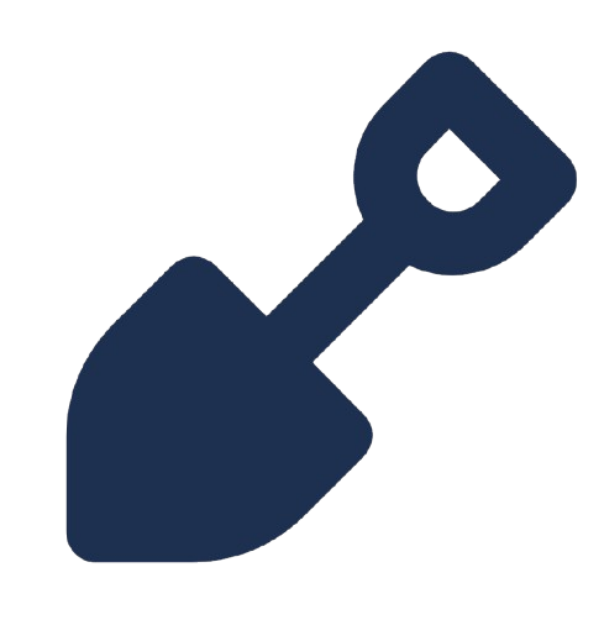
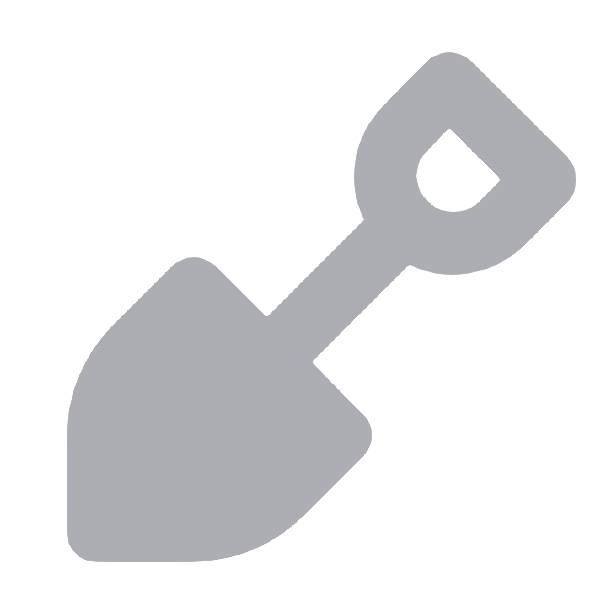
bulldozer + graphs

diff --git a/content.js b/content.js
@@ -1,7 +1,8 @@
 console.log("DiscoDig running...")
 
+// initialize variables
 const stopwords = new Set([
-    "got", "after", "going", "theres", "ill", "yes", "thats", "i", "im", "i'm", "r", "ur", "u", "me", "my", "myself", "we", "our", "ours", "ourselves", "you", "your",
+    "get", "got", "after", "going", "theres", "ill", "yes", "thats", "i", "im", "i'm", "r", "ur", "u", "me", "my", "myself", "we", "our", "ours", "ourselves", "you", "your",
     "yours", "yourself", "yourselves", "he", "him", "his", "himself", "she",
     "her", "hers", "herself", "it", "its", "itself", "they", "them", "their",
     "theirs", "themselves", "what", "which", "who", "whom", "this", "that",
@@ -15,6 +16,22 @@ const stopwords = new Set([
     "own", "same", "so", "than", "too", "very", "can", "will", "just"
 ]);
 
+let mappedMessages = new Map();
+let datedMessages = new Map();
+let timedMessages = new Map([
+    [0, 0], [1, 0], [2, 0], [3, 0], [4, 0],
+    [5, 0], [6, 0], [7, 0], [8, 0], [9, 0],
+    [10, 0], [11, 0], [12, 0], [13, 0], [14, 0],
+    [15, 0], [16, 0], [17, 0], [18, 0], [19, 0],
+    [20, 0], [21, 0], [22, 0], [23, 0]
+]);
+
+function snowflakeToDate(snowflake) {
+    const discordEpoch = 1420070400000n;
+    const timestamp = (BigInt(snowflake) >> 22n) + discordEpoch;
+    return new Date(Number(timestamp));
+}
+
 
 // get user token (remove before pushing to github)
 const iframe = document.createElement("iframe")
@@ -25,20 +42,23 @@ token = token.slice(1, token.length - 1)
 console.log("token obtained: ", token)
 
 
-
 // create DD button
-const DDbutton = document.createElement("button");
+const DDbutton = document.createElement("img");
+const shovelImg = chrome.runtime.getURL('imgs/shovel.png');
 DDbutton.id = "discoDigButton";
-DDbutton.width = 30;
-DDbutton.height = 30;
-DDbutton.textContent = "DD"
-DDbutton.style.backgroundColor = "#adaeb4"
-DDbutton.style.borderRadius = "6px"
+DDbutton.src = shovelImg
+DDbutton.width = 25;
+DDbutton.height = 25;
 DDbutton.onclick = openDD
+DDbutton.style.cursor = "pointer"
+
 
 // create DD modal
 const discoDig = document.createElement("span");
 discoDig.id = "discoDigModal";
+const bulldozerGif = chrome.runtime.getURL('imgs/bulldozer.gif');
+
+
 discoDig.innerHTML = `
 <style>
 .modebar{
@@ -71,8 +91,6 @@ discoDig.innerHTML = `
     border: 3px solid #ffffff;
     border-radius: 25px;
     overflow-y: scroll;
-    
-
 }
 
 #title {
@@ -85,6 +103,8 @@ discoDig.innerHTML = `
 
 #dataContainer {
   display: flex;
+  justify-content: center;
+    align-items: center;
   flex-wrap: wrap;
   gap: 20px;
 }
@@ -97,16 +117,56 @@ discoDig.innerHTML = `
     border-radius: 10px;
 }
 
+#dayGraph, #timeGraph {
+    width: 45%;
+}
 
 #wordCloudCanvas {
     width: 100%;
     height: 100%;
 }
+
 #selectedChannel {
     color: white;
     text-align: center;
 }
+
+#bulldozer {
+    position: relative;
+    overflow: hidden;
+    height: 100px; /* Adjust to your gif height */
+}
+
+#bulldozer img {
+    position: absolute;
+    animation: moveBuldozer 10s linear infinite;
+    height: 100%;
+}
+
+@keyframes moveBuldozer {
+    0% {
+        left: -200px;
+        transform: scaleX(-1);
+    }
+
+    50% {
+        left: 100%;
+        transform: scaleX(-1);
+    }
+    51% {
+        transform: scaleX(1);
+    }
+
+    99% {
+        transform: scaleX(1);
+    }
+    100% {
+        left: -200px;
+        transform: scaleX(-1);
+    }
+}
 </style>
+
 
 <div id="DDContainer">
   <div id="DDDiv">
@@ -116,17 +176,27 @@ discoDig.innerHTML = `
 
     <div id="dataContainer">
         <div id="userCounts"></div>
+
         <div id="userWordCounts">
             <select id="userSelect" class="clickable"></select>
             <ol id="userTopWords"></ol>
         </div>
+
         <div id="wordCloud">
             <canvas id="wordCloudCanvas">
             </canvas>
         </div>
-        <br>
+        
+        <div id="dayGraph">
+        </div>
+
         <div id="timeGraph">
         </div>
+    </div>
+
+    <br>
+    <div id="bulldozer">
+        <img src="${bulldozerGif}" />
     </div>
 
   </div>
@@ -134,32 +204,31 @@ discoDig.innerHTML = `
     ;
 
 
-
 discoDig.style.display = "none"
 document.body.appendChild(discoDig);
 document.getElementById("closeButton").onclick = closeDD
 document.getElementById("userSelect").onchange = fetchCommonWords
+
+// DDModal handles
 const userSelect = document.getElementById("userSelect")
 const userTopWordsDisplay = document.getElementById("userTopWords")
 const selectedChannelDisplay = document.getElementById("selectedChannel")
 const wordCloudCanvas = document.getElementById("wordCloudCanvas")
+const dayGraphDisplay = document.getElementById("dayGraph")
 const timeGraphDisplay = document.getElementById("timeGraph")
 
 
 
-let mappedMessages = new Map();
-let datedMessages = new Map();
-
 
 // event listener for discord toolbar appearing
 const observer = new MutationObserver((mutationsList) => {
-    for (const mutation of mutationsList) {
-        for (const node of mutation.addedNodes) {
-            if (node.querySelector?.(".toolbar__9293f")) { // search for toolbar
-                console.log("new DM opened");
-                spawnButton()
-
-                //   observer.disconnect(); // stop watching after it appears
+    if (window.location.href.includes("@me") && window.location.href.length > 32) { // check if current page is a DM/GC
+        for (const mutation of mutationsList) {
+            for (const node of mutation.addedNodes) {
+                if (node.querySelector?.(".toolbar__9293f")) { // search for toolbar 
+                    console.log("new DM opened");
+                    spawnButton()
+                }
             }
         }
     }
@@ -177,13 +246,6 @@ function spawnButton() {
 
     const toolbar = document.getElementsByClassName("toolbar__9293f")[0];
     toolbar.appendChild(DDbutton);
-}
-
-
-function snowflakeToDate(snowflake) {
-    const discordEpoch = 1420070400000n;
-    const timestamp = (BigInt(snowflake) >> 22n) + discordEpoch;
-    return new Date(Number(timestamp));
 }
 
 
@@ -237,9 +299,13 @@ async function openDD() {
                 [...(mappedMessages.get(msg.author.username) || []), msg.content]
             );
 
-            // map the dates of the msgs
-            let date = snowflakeToDate(msg.id).toLocaleDateString();
+            // map the dates & times of the msgs
+            let timestamp = snowflakeToDate(msg.id)
+            let date = timestamp.toLocaleDateString()
+            let time = timestamp.getHours()
+
             datedMessages.set(date, (datedMessages.get(date) + 1 || 1));
+            timedMessages.set(time, timedMessages.get(time) + 1);
         })
 
         console.log(datedMessages)
@@ -254,21 +320,56 @@ async function openDD() {
     calculateUserCounts()
     fetchWordCloud()
     fetchCommonWords()
-    displayTimeGraph()
+    displayDayTimeGraph()
 }
 
 
-function displayTimeGraph() {
-    let timeData = {
+// display time graph
+function displayDayTimeGraph() {
+    let dayData = {
         x: [...datedMessages.keys()].reverse(),
         y: [...datedMessages.values()].reverse(),
         type: 'scatter'
     };
 
+    let timeData = {
+        x: [
+            "12am", "1am", "2am", "3am", "4am", "5am",
+            "6am", "7am", "8am", "9am", "10am", "11am",
+            "12pm", "1pm", "2pm", "3pm", "4pm", "5pm",
+            "6pm", "7pm", "8pm", "9pm", "10pm", "11pm"
+        ],
+        y: [...timedMessages.values()],
+        type: 'scatter'
+    };
 
-    Plotly.newPlot(timeGraphDisplay, [timeData]);
 
+    Plotly.newPlot(dayGraphDisplay, [dayData],
+        {
+            title: { text: "Number of Messages Per Day" },
+            paper_bgcolor: "rgba(0, 0, 0, 0)",
+            plot_bgcolor: "rgba(0, 0, 0, 0)",
+            font: { color: 'white' },
+            margin: {
+                r: 40,
+                l: 40
+            },
+        });
+
+
+    Plotly.newPlot(timeGraphDisplay, [timeData],
+        {
+            title: { text: "Total Number of Messages Per Time of Day" },
+            paper_bgcolor: "rgba(0, 0, 0, 0)",
+            plot_bgcolor: "rgba(0, 0, 0, 0)",
+            font: { color: 'white' },
+            margin: {
+                r: 40,
+                l: 40
+            },
+        });
 }
+
 
 function fetchWordCloud() {
     // get a list of ALL words 
@@ -280,7 +381,6 @@ function fetchWordCloud() {
         allWords = allWords.concat(user.join(" ").replace(/[!"’#$%&'()*+,-./:;<=>?@[\]^_`{|}~]/g, '').toLowerCase().split(" ").filter(word => word && !stopwords.has(word)));
     })
 
-    console.log(allWords)
 
 
     // map them all
@@ -296,7 +396,6 @@ function fetchWordCloud() {
         wordCloudList.push([word, freq])
     })
 
-    console.log(wordCloudCanvas.offsetWidth)
     wordCloudCanvas.width = wordCloudCanvas.offsetWidth
     wordCloudCanvas.height = wordCloudCanvas.offsetHeight
 
